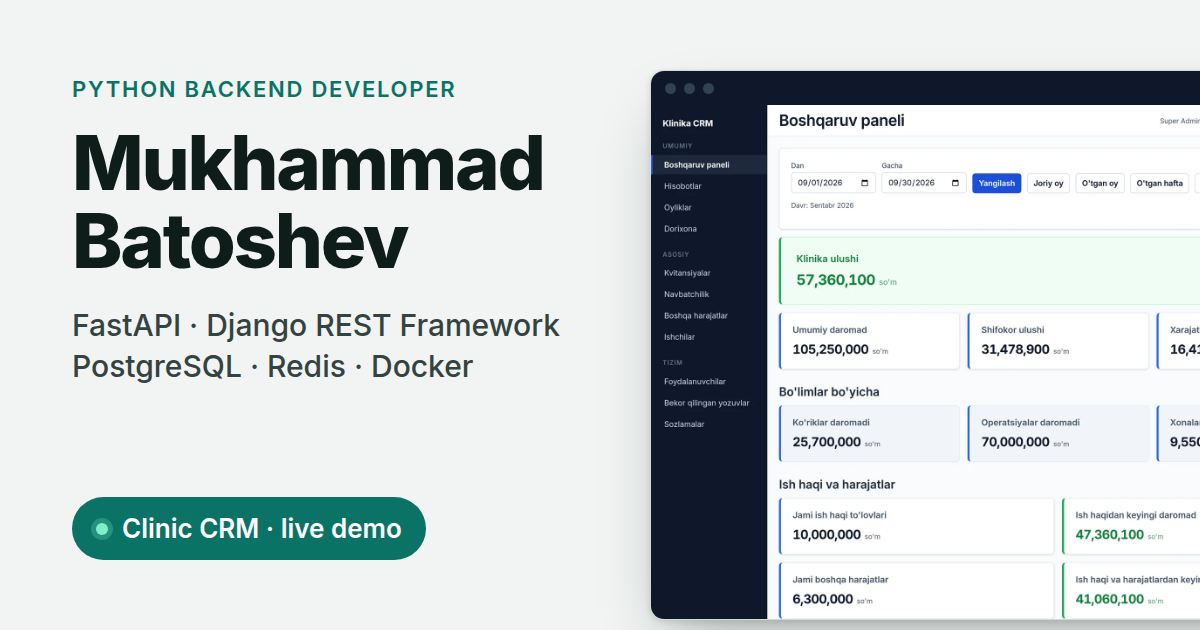
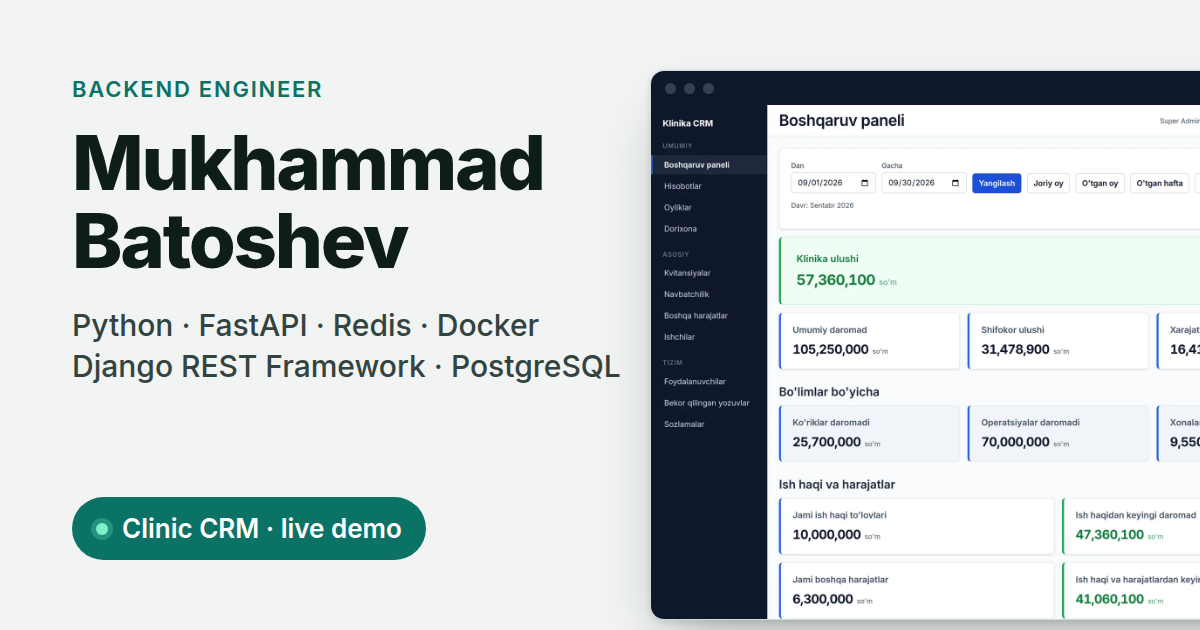
Use the title Backend Engineer

Changed region(s): [[0.0617, 0.4825, 0.5242, 0.6032], [0.0617, 0.1206, 0.4008, 0.1508]]

diff --git a/index.html b/index.html
@@ -4,7 +4,7 @@
 <meta charset="utf-8">
 <meta name="viewport" content="width=device-width, initial-scale=1">
 <title>Mukhammad Batoshev</title>
-<meta name="description" content="Mukhammad Batoshev, Python backend developer in Tashkent. FastAPI and Django REST Framework. Featured: a clinic finance and payroll system built with FastAPI.">
+<meta name="description" content="Mukhammad Batoshev, backend engineer in Tashkent. Python, FastAPI and Django REST Framework. Featured: a clinic finance and payroll system built with FastAPI.">
 <link rel="preconnect" href="https://fonts.googleapis.com">
 <link rel="preconnect" href="https://fonts.gstatic.com" crossorigin>
 <link rel="stylesheet" href="https://fonts.googleapis.com/css2?family=Archivo:wdth,wght@62..125,400..900&family=Martian+Mono:wdth,wght@75..112.5,400..700&family=Public+Sans:ital,wght@0,400..700;1,400&display=swap">
@@ -440,8 +440,8 @@ code {
 <link rel="icon" href="favicon.svg" type="image/svg+xml">
 <meta property="og:type" content="website">
 <meta property="og:site_name" content="Mukhammad Batoshev">
-<meta property="og:title" content="Mukhammad Batoshev — Python Backend Developer">
-<meta property="og:description" content="FastAPI and Django REST Framework. Featured: a clinic finance and payroll system, with a live demo you can use.">
+<meta property="og:title" content="Mukhammad Batoshev — Backend Engineer">
+<meta property="og:description" content="Python, FastAPI and Django REST Framework. Featured: a clinic finance and payroll system, with a live demo you can use.">
 <meta property="og:url" content="https://aminovich7.github.io/">
 <meta property="og:image" content="https://aminovich7.github.io/og.png">
 <meta property="og:image:width" content="1200">
@@ -464,10 +464,10 @@ code {
   <!-- ===================== HERO ===================== -->
   <section class="hero" id="top">
     <div class="hero-copy">
-      <p class="eyebrow">Python backend developer · Tashkent, Uzbekistan</p>
+      <p class="eyebrow">Backend engineer · Tashkent, Uzbekistan</p>
       <h1><span>Mukhammad</span> <span>Batoshev</span></h1>
       <p class="lead">I build backend systems with FastAPI and Django REST Framework. My latest is a finance and payroll system for a private clinic. I designed, built, tested and deployed it on my own, to replace the clinic's spreadsheets and paper receipts.</p>
-      <p class="open">Open to backend developer roles</p>
+      <p class="open">Open to backend engineering roles</p>
       <div class="actions">
         <a class="btn primary" href="https://aminovich7.github.io/clinic-crm-demo/" target="_blank" rel="noopener">Try the live demo <span aria-hidden="true">↗</span></a>
         <a class="btn" href="#case-study">Clinic case study <span aria-hidden="true">↓</span></a>
@@ -839,7 +839,7 @@ code {
   <section class="section contact" id="contact">
     <p class="eyebrow">Contact</p>
     <h2 style="margin-top:1rem">Let's talk.</h2>
-    <p class="sub">I'm open to backend developer roles. The quickest way to reach me is Telegram or email.</p>
+    <p class="sub">I'm open to backend engineering roles. The quickest way to reach me is Telegram or email.</p>
     <ul class="channels">
       <li>
         <span class="k">Email</span>

diff --git a/README.md b/README.md
@@ -1,6 +1,6 @@
 # aminovich7.github.io
 
-Portfolio of **Mukhammad Batoshev**, Python backend developer (FastAPI, Django REST Framework).
+Portfolio of **Mukhammad Batoshev**, backend engineer (Python, FastAPI, Django REST Framework).
 
 - **Portfolio:** https://aminovich7.github.io/
 - **LinkedIn:** https://www.linkedin.com/in/mukhammad-batoshev
